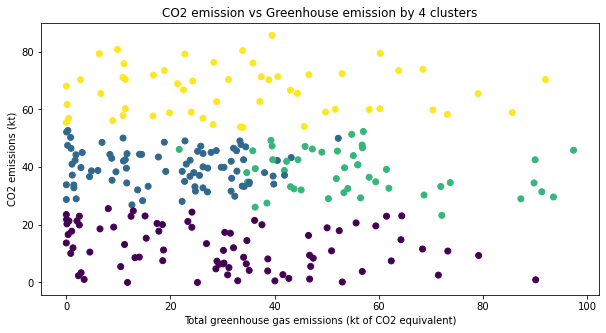
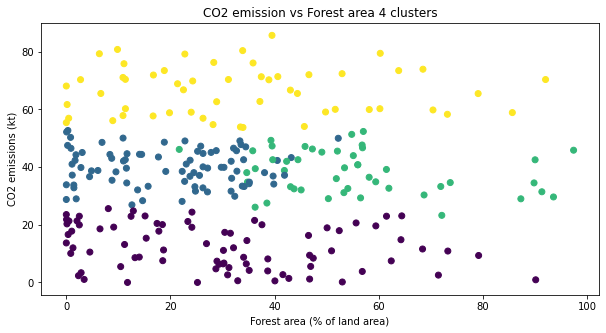
final version of assignment3 V1

Changed region(s): [[0.297, 0.9309, 0.7426, 0.991], [0.2673, 0.0, 0.802, 0.0601]]

diff --git a/assignment3-clustering-and-fitting.py b/assignment3-clustering-and-fitting.py
@@ -218,9 +218,9 @@ def fitting_function(x_data, y_data, linear_func, sigma=[1.0, 1.0]):
     plt.plot(x_data, y_data, label='Data')
     plt.plot(x_pred, y_pred, 'r-', label='Linear Fit')
     plt.legend(loc='right')
-    plt.title("Population Prediction")
-    plt.xlabel('Year')
-    plt.ylabel('Total Population')
+    plt.title("Population Prediction", fontsize = 15)
+    plt.xlabel('Year', fontsize = 15)
+    plt.ylabel('Total Population', fontsize = 15)
     plt.show()
     
 
@@ -270,16 +270,20 @@ if __name__=="__main__":
     'CO2 emissions (kt)': 'CO2 emissions',
     'Forest area (% of land area)': 'Forest area',
     'Methane emissions (kt of CO2 equivalent)': 'Methane emissions',
-    'Nitrous oxide emissions (thousand metric tons of CO2 equivalent)': 'Nitrous oxide emissions',
-    'Total greenhouse gas emissions (kt of CO2 equivalent)': 'Total GHG emissions',
-    'Renewable electricity output (% of total electricity output)':'Renewable electricity',
-    'Renewable energy consumption (% of total final energy consumption)':'Renewable energy',
+    'Nitrous oxide emissions (thousand metric tons of CO2 equivalent)'\
+        : 'Nitrous oxide emissions',
+    'Total greenhouse gas emissions (kt of CO2 equivalent)'\
+        : 'Total GHG emissions',
+    'Renewable electricity output (% of total electricity output)'\
+        :'Renewable electricity',
+    'Renewable energy consumption (% of total final energy consumption)'\
+        :'Renewable energy',
     }
     
     #rename labels to shortened the name to prevent label collapse
     pivot_dataset_scatter = pivot_dataset.rename(columns=label_dict)
     
-    # scatter plot
+    # scatter matrix plot
     pd.plotting.scatter_matrix(pivot_dataset_scatter, figsize=(15.0, 15.0))
     plt.tight_layout()    # helps to avoid overlap of labels
     plt.xticks(rotation=90)
@@ -289,7 +293,9 @@ if __name__=="__main__":
     # Correlation
     corr = pivot_dataset.corr()
     mask = np.triu(np.ones_like(corr, dtype=bool))
-    sns.heatmap(corr, mask=mask, cmap='coolwarm', annot=True, fmt='.2f', xticklabels=indicator_list_short, yticklabels=indicator_list_short)
+    sns.heatmap(corr, mask=mask, cmap='coolwarm', annot=True, fmt='.2f'
+                , xticklabels=indicator_list_short
+                , yticklabels=indicator_list_short)
    
     plt.title('Correlation between different indicators')
     plt.show()
@@ -299,21 +305,21 @@ if __name__=="__main__":
     
     #scatter plot with cluster  3
     scatter_plot_for_clustered_data(clustered_dataset
-                                    ,'Forest area (% of land area)'
-                                    ,'CO2 emissions (kt)'
-                                    ,'Total greenhouse gas emissions (kt of CO2 equivalent)'
-                                    ,'CO2 emissions (kt)'
-                                    ,'CO2 emission vs Greenhouse emission by 3 clusters')
+                    ,'Forest area (% of land area)'
+                    ,'CO2 emissions (kt)'
+                    ,'Forest area (% of land area)'
+                    ,'CO2 emissions (kt)'
+                    ,'CO2 emission vs Forest area by 3 clusters')
     #clustering with 4
     clustered_dataset_four = clustering_function(pivot_dataset,4)
     
     #scatter plot with cluster 4
     scatter_plot_for_clustered_data(clustered_dataset_four
-                                    ,'Forest area (% of land area)'
-                                    ,'CO2 emissions (kt)'
-                                    ,'Total greenhouse gas emissions (kt of CO2 equivalent)'
-                                    ,'CO2 emissions (kt)'
-                                    ,'CO2 emission vs Greenhouse emission by 4 clusters')
+                    ,'Forest area (% of land area)'
+                    ,'CO2 emissions (kt)'
+                    ,'Forest area (% of land area)'
+                    ,'CO2 emissions (kt)'
+                    ,'CO2 emission vs Forest area 4 clusters')
     
     
     #fitting
